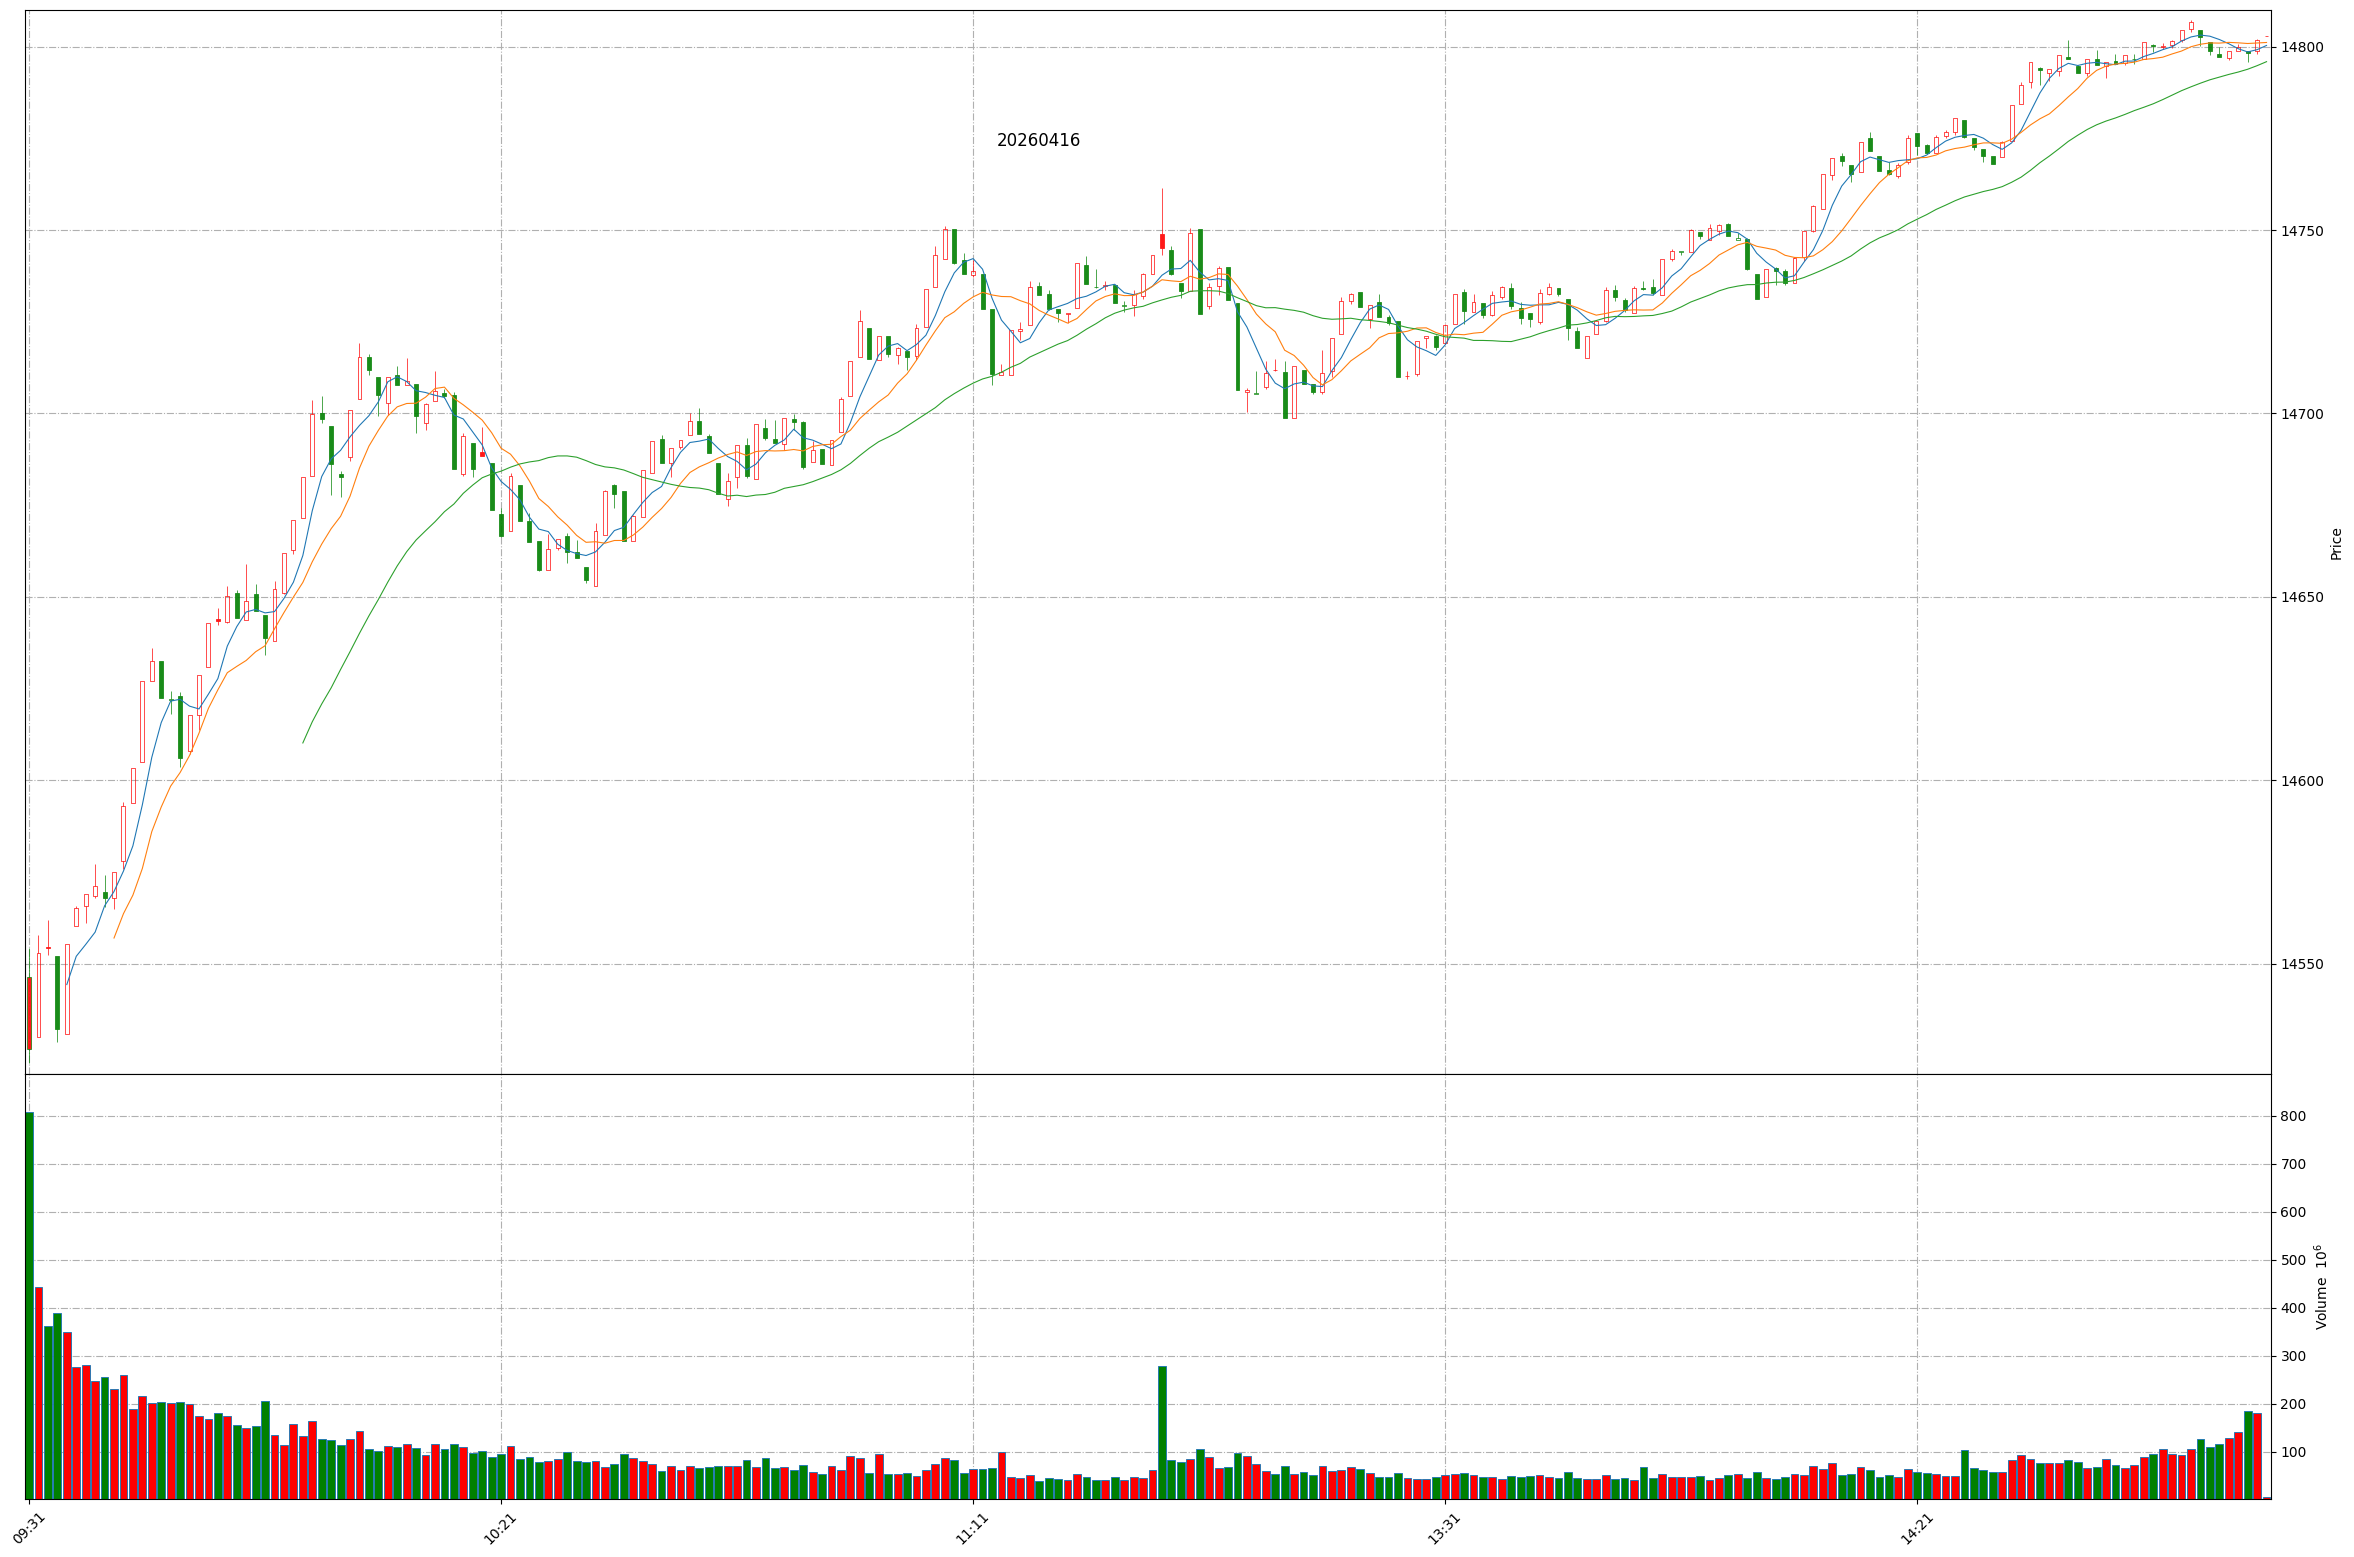
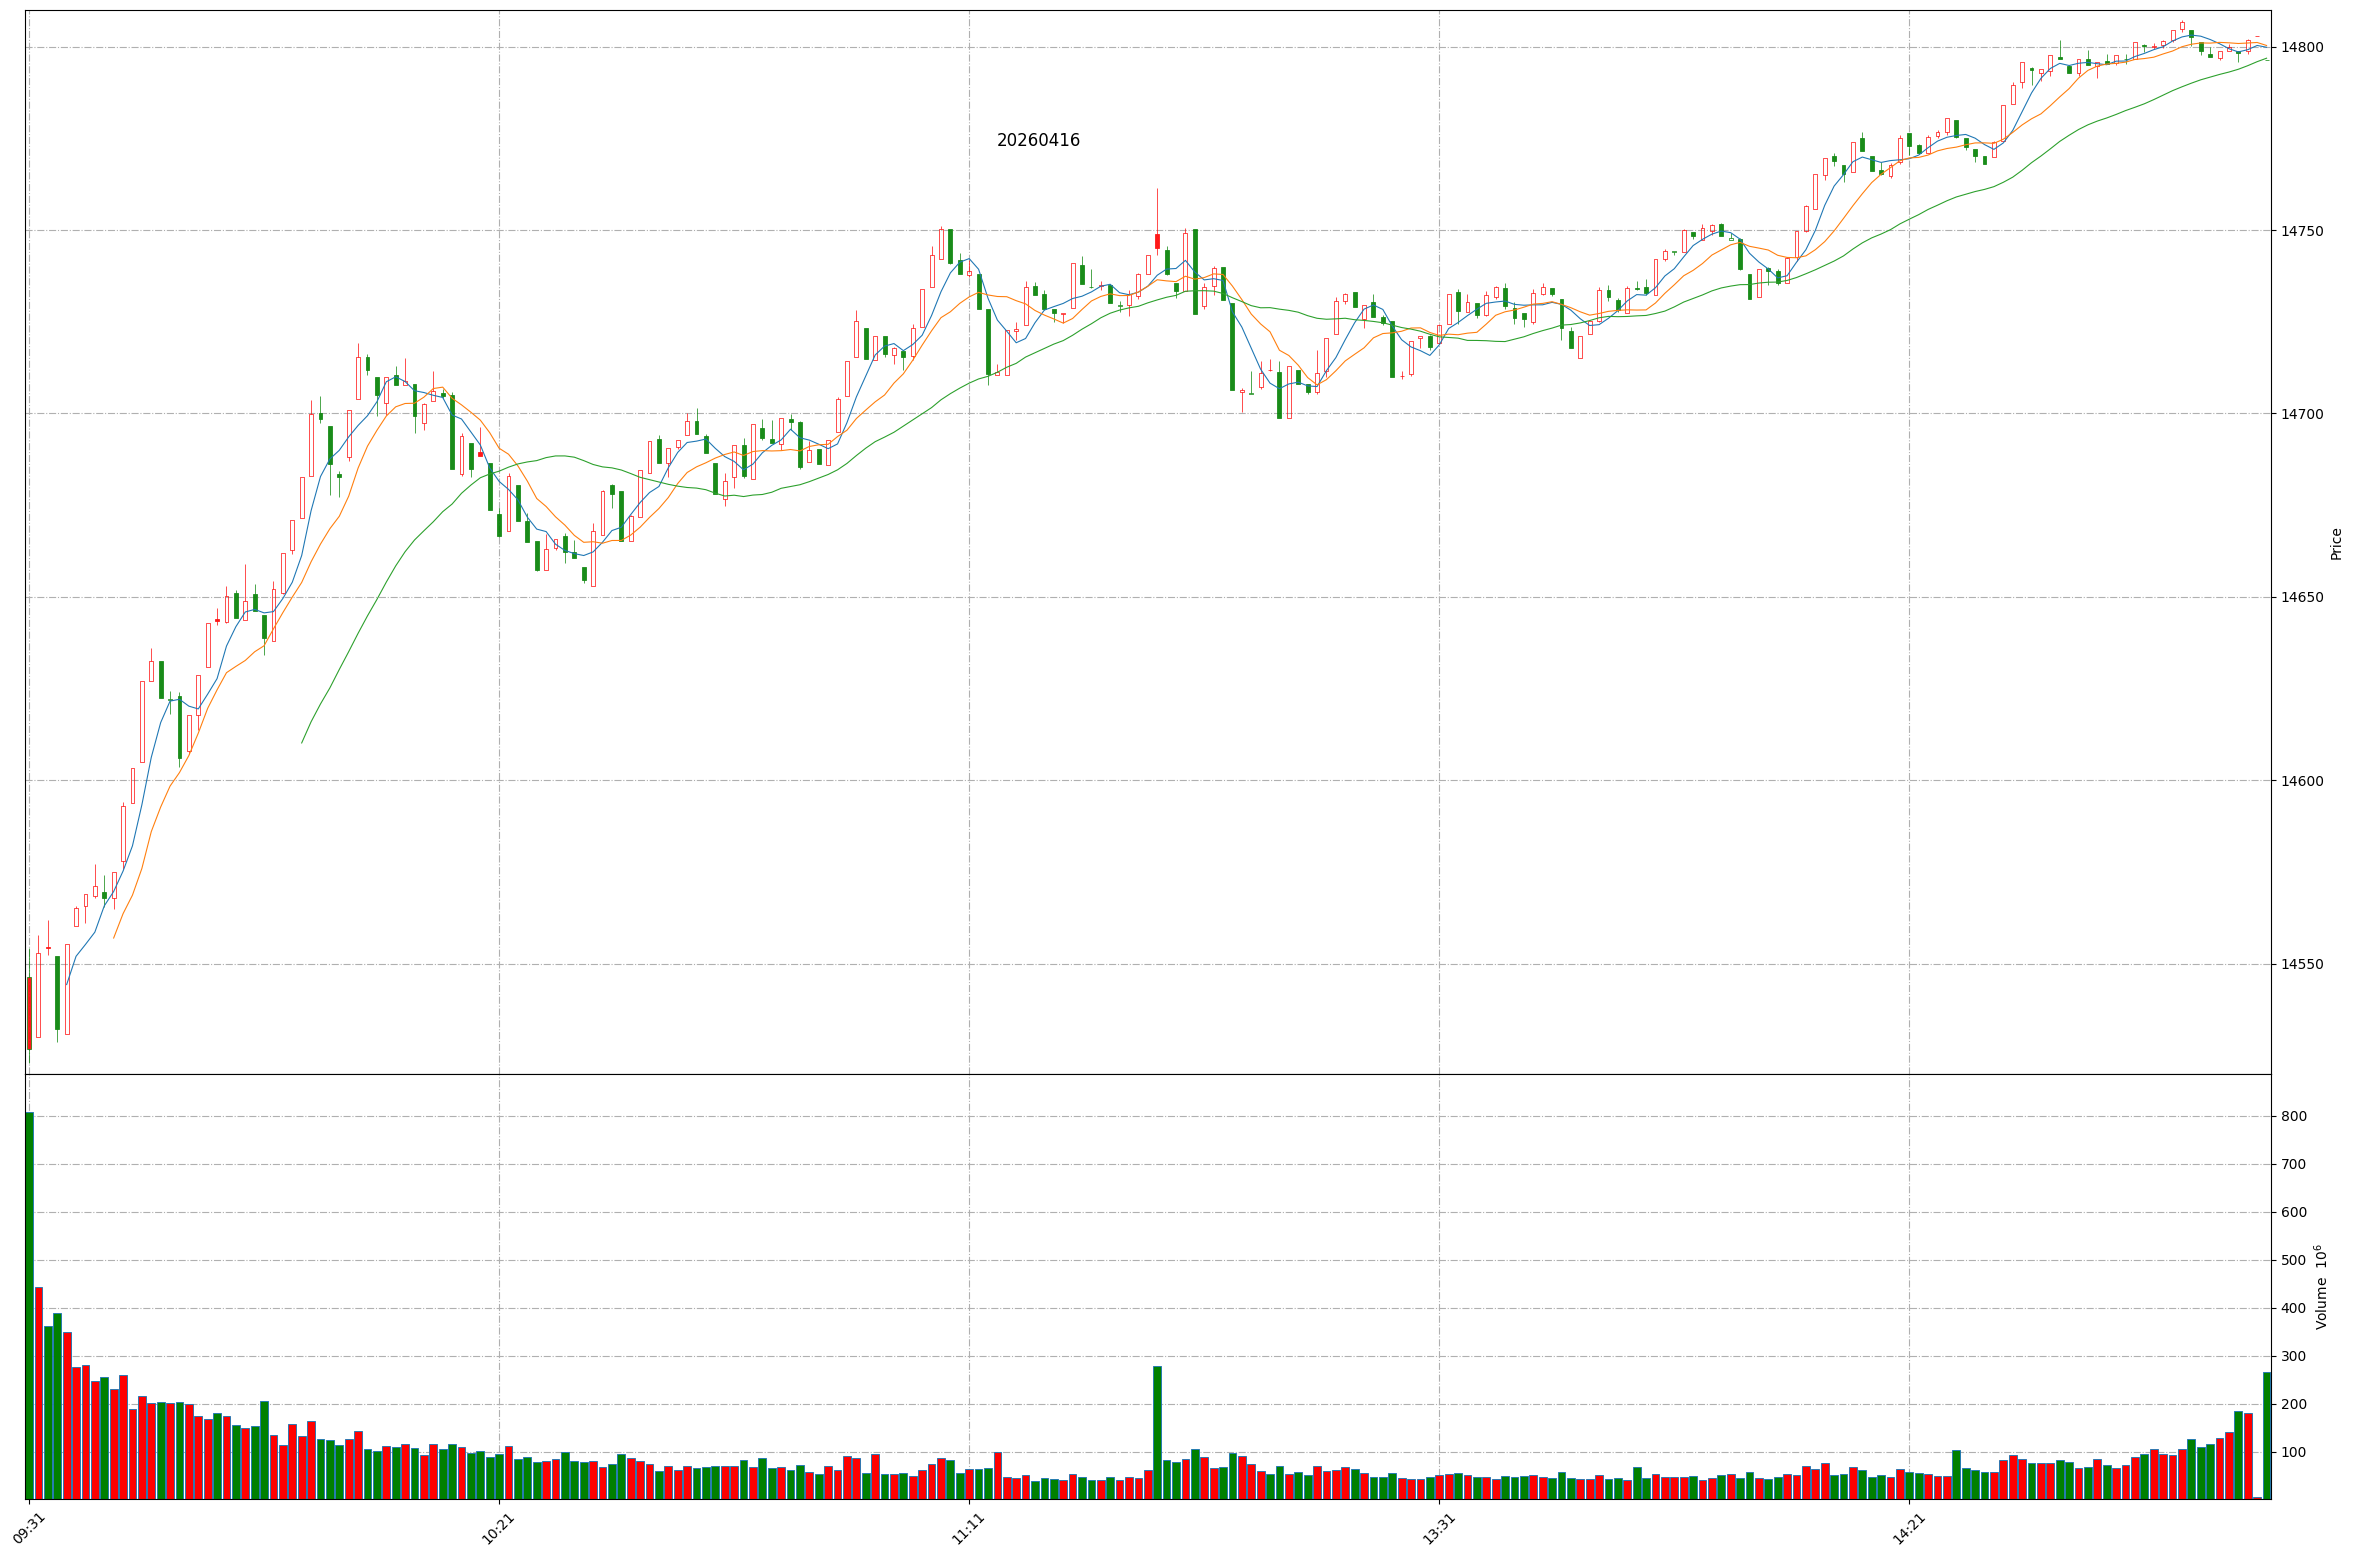
Github action update at 2026-04-16 15:02:27.

diff --git a/README.md b/README.md
@@ -1,11 +1,11 @@
 
 # Daily-A-share-market-quotes 每日 A 股指数（5min 更新）- 20260416
 
-### 上证指数 20260416 15:0
+### 上证指数 20260416 15:2
 ![](./fig/2026/4/20260416-sh000001.png)
 
-### 深证成指 20260416 15:0
+### 深证成指 20260416 15:2
 ![](./fig/2026/4/20260416-sz399001.png)
 
-### 北证50 20260416 15:0
+### 北证50 20260416 15:2
 ![](./fig/2026/4/20260416-bj899050.png)
